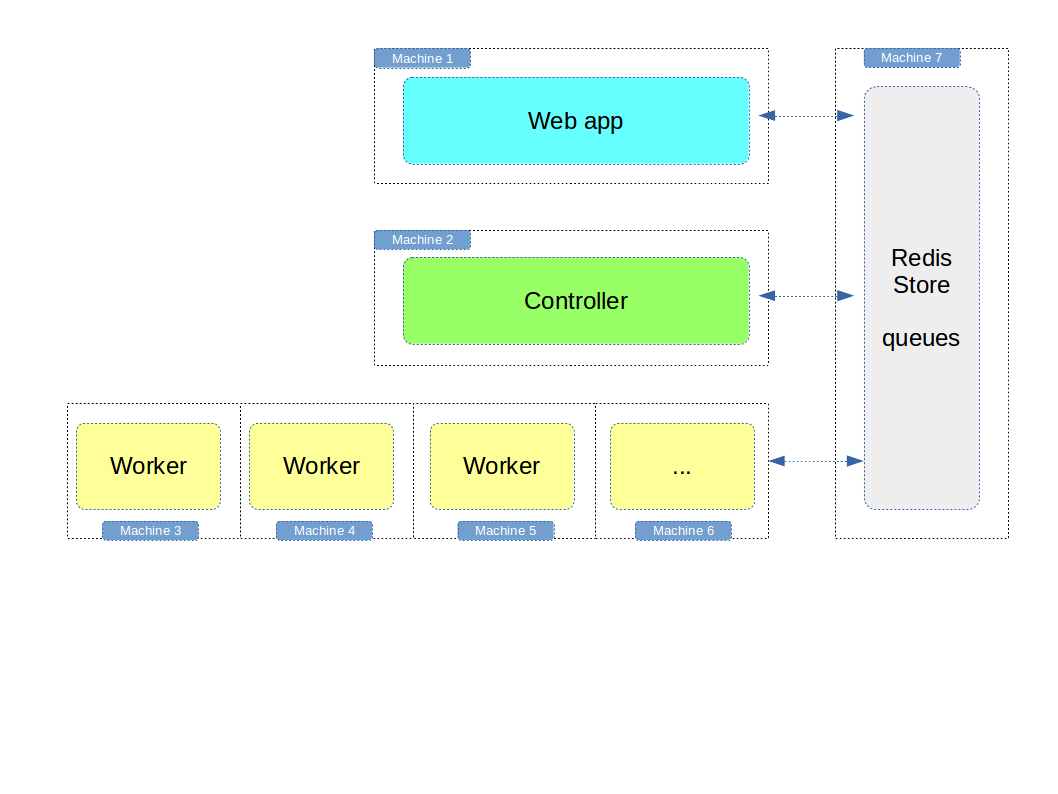
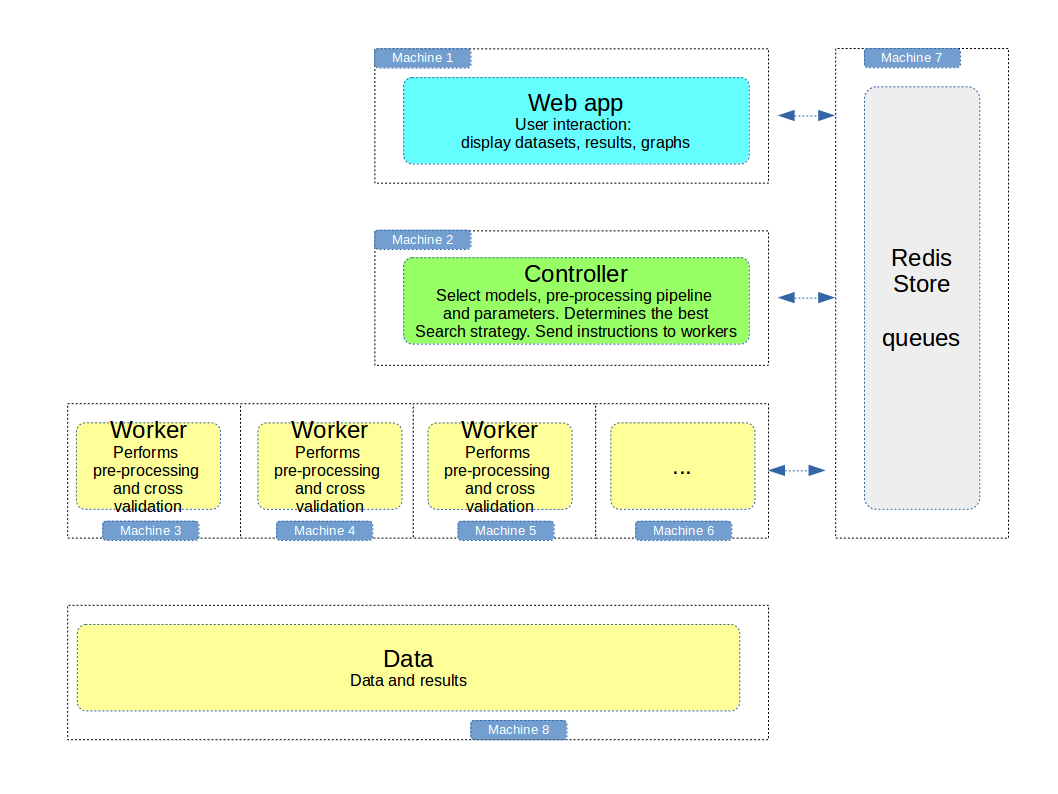
updated documentation

diff --git a/automlk/context.py b/automlk/context.py
@@ -24,19 +24,6 @@ def get_config():
     retrieves configuration parameters
     :return: config dict
     """
-    """
-    # detect OS
-    home = str(Path.home())
-    if platform.system() == 'Linux':
-        setup_dir = home + '/.automlk'
-    else:
-        setup_dir = home.replace('\\', '/') + '/automlk'
-
-    if os.path.exists(setup_dir + '/automlk.json'):
-        with open(setup_dir + '/automlk.json', 'r') as f:
-            return eval("".join(f.readlines()))
-    raise EnvironmentError('configuration file %s not found' % setup_dir + '/automlk.json')
-    """
     if os.path.exists('../config.json'):
         with open('../config.json', 'r') as f:
             return eval("".join(f.readlines()))
@@ -47,36 +34,6 @@ def get_data_folder():
     """
     retrieves root folder from 'automlk.json' configuration file
     :return: storage folder of the data
-    """
-
-    """
-    # detect OS
-    home = str(Path.home())
-    if platform.system() == 'Linux':
-        setup_dir = home + '/.automlk'
-    else:
-        setup_dir = home.replace('\\', '/') + '/automlk'
-
-    if not os.path.exists(setup_dir + '/automlk.json'):
-        print('creating setup folder and configuration file')
-
-        # create setup and store folders
-        os.makedirs(setup_dir)
-        os.makedirs(setup_dir + '/store')
-
-        # create default configuration file
-        with open(setup_dir + '/automlk.json', 'w') as f:
-            f.write('{"data": "%s", "theme": "darkly", "store": "localhost"}\n' % setup_dir)
-        return setup_dir
-    else:
-        # read the data folder in the setup file
-        # can be modified by user in order to manage distributed workers on different machines in parallel
-        with open(setup_dir + '/automlk.json', 'r') as f:
-            config = eval("".join(f.readlines()))
-            if platform.system() == 'Linux':
-                return config['data']
-            else:
-                return os.path.abspath(config['data']).replace('\\', '/') + '/automlk'
     """
     return get_config()['data']
 

diff --git a/automlk/controller.py b/automlk/controller.py
@@ -9,11 +9,12 @@ from .monitor import heart_beep
 PATIENCE_RANDOM = 100
 PATIENCE_ENSEMBLE = 100
 
-"""
-this is the controller module
-"""
 
 def launch_controller():
+    """
+    controller process: manages the search strategy and send instruction to workers
+    :return:
+    """
 
     i_dataset = -1
     # controls the optimization rounds and sends instructions to the workers
@@ -40,9 +41,6 @@ def launch_controller():
             msg_search = __create_search_round(dataset_id)
 
             # send queue the next job to do
-            msg_search.pop('choices')
-            msg_search.pop('choices_feature')
-            msg_search.pop('start')
             print('sending %s' % msg_search)
             lpush_key_store(SEARCH_QUEUE, msg_search)
             heart_beep('controller', msg_search)
@@ -65,9 +63,6 @@ def __create_search_round(dataset_id):
     # generate round id
     round_id = incr_key_store('dataset:%s:round_counter' % dataset_id) - 1
 
-    # generate context
-    # context = HyperContext(dataset.problem_type, dataset.x_cols, dataset.cat_cols, dataset.missing_cols)
-
     # generate pre-processing pipeline and pre-processing params
     i_pp = round_id % len(search['choices_feature'])
     ref = search['choices_feature'][i_pp]
@@ -89,8 +84,12 @@ def __create_search_round(dataset_id):
         params = get_random_params(solution.space_params)
 
     # generate search message
-    return {**search, **{'dataset_id': dataset.dataset_id, 'round_id': round_id, 'solution': solution.ref,
+    msg_search = {**search, **{'dataset_id': dataset.dataset_id, 'round_id': round_id, 'solution': solution.ref,
                          'model_name': solution.name, 'model_params': params, 'pipeline': pipeline}}
+    msg_search.pop('choices')
+    msg_search.pop('choices_feature')
+    msg_search.pop('start')
+    return msg_search
 
 
 def __find_search_store(dataset):

diff --git a/automlk/dataset.py b/automlk/dataset.py
@@ -14,6 +14,30 @@ def create_dataset(name, description, problem_type, y_col, is_uploaded, source, 
                    other_metrics=[], val_col='index', cv_folds=5, val_col_shuffle=True,
                    holdout_ratio=0.2, filename_test='', filename_cols='', filename_submit='', is_public=False, url='',
                    col_submit=''):
+    """
+    creates a dataset
+
+    :param name: name of the dataset
+    :param description: description of the dataset
+    :param problem_type: 'regression' or 'classification'
+    :param y_col: name of the target column
+    :param is_uploaded: not used
+    :param source: source of the dataset
+    :param filename_train: file path of the training set
+    :param metric: metric to be used to select the best models ('mse', 'rmse', 'log_loss', ...)
+    :param other_metrics: list of secondary metrics
+    :param val_col: column name to perform the cross validation (default = 'index')
+    :param cv_folds: number of cross validation folds (default = 5)
+    :param val_col_shuffle: need to shuffle in cross validation (default = false)
+    :param holdout_ratio: holdout ration to split train / eval set
+    :param filename_test: name of the test set (benchmark mode)
+    :param filename_cols: file to describe columns
+    :param filename_submit: name of the submit set (competition mode)
+    :param is_public: is the dataset in the public domain (true / false)
+    :param url: url of the dataset
+    :param col_submit: index column to be used in submit file (competition mode)
+    :return: dataset object
+    """
 
     # create object and control data
     creation_date = datetime.datetime.now().strftime("%Y-%m-%d %H:%M:%S")

diff --git a/automlk/monitor.py b/automlk/monitor.py
@@ -27,7 +27,6 @@ def heart_beep(module, msg):
 
     # save msg in store
     set_key_store('monitor:%s:%s' % (module, id), msg_beep)
-    print(msg_beep)
 
 
 def get_heart_beeps(module):

diff --git a/docs/index.rst b/docs/index.rst
@@ -40,6 +40,15 @@ The architecture is distributed and can be installed on multiple machines
    independent components of the architecture
 
 
+The software architecture is organized in concentric layers:
+
+.. figure:: img/software.png
+   :scale: 50 %
+   :alt: software components
+
+   software components of the architecture
+
+
 Usage
 -----
 
@@ -56,6 +65,7 @@ Then launch the web app in /automlk-app folder:
     python run.py
 
 This will launch the web app, which can be accessed via a web browser, at address:
+
 .. code-block:: python
 
     http://localhost:5001
